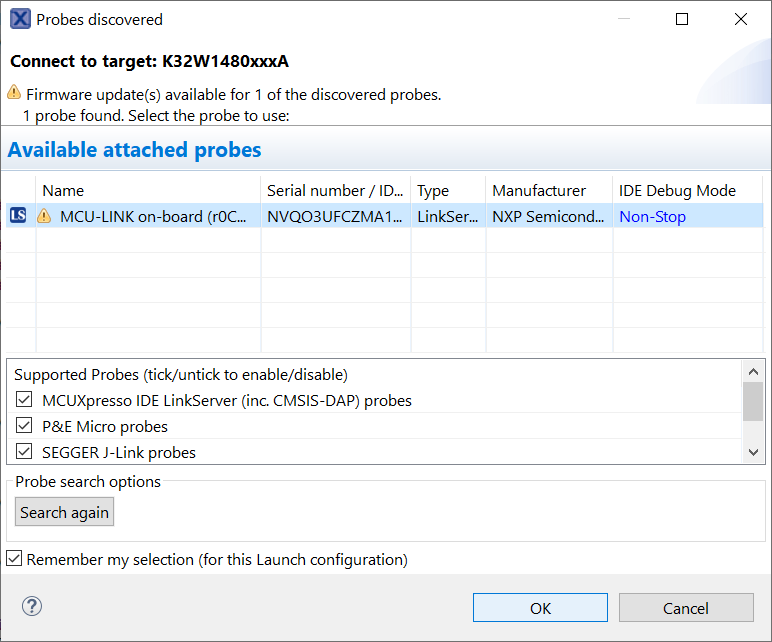
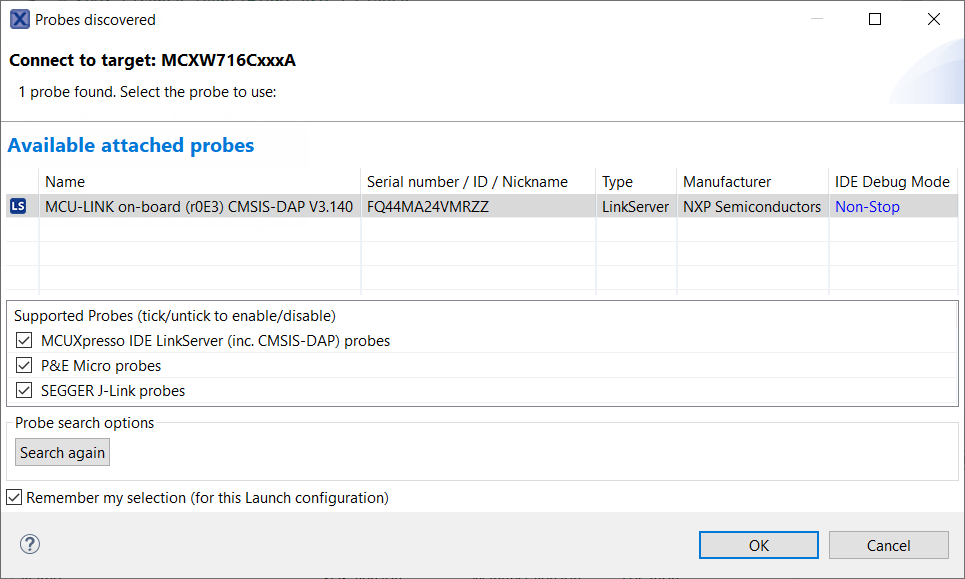
GS for frdmmcxw71

diff --git a/boards/frdmmcxw71/gettingStarted/topics/updating_debugger_firmware.md b/boards/frdmmcxw71/gettingStarted/topics/updating_debugger_firmware.md
@@ -1,6 +1,6 @@
 # Updating debugger firmware {#topic_rrw_l2h_5wb}
 
-The K32W148-EVK board comes with a CMSIS-DAP-compatible debug interface \(known as MCU-Link\). This firmware in this debug interface may be updated using the host computer scripts. This typically used when switching between the default debugger protocol \(CMSIS-DAP\) to SEGGER J-Link, or for updating this firmware with new releases of these. This section contains the steps to re-program the debug probe firmware.
+The FRDM-MCXW71 board comes with a CMSIS-DAP-compatible debug interface \(known as MCU-Link\). This firmware in this debug interface may be updated using the host computer scripts. This typically used when switching between the default debugger protocol \(CMSIS-DAP\) to SEGGER J-Link, or for updating this firmware with new releases of these. This section contains the steps to re-program the debug probe firmware.
 
 NXP provides the MCU-Link utility, which is the recommended tool for programming the latest versions of CMSIS-DAP and J-Link firmware onto MCU-Link. The utility can be downloaded from [https://www.nxp.com/design/microcontrollers-developer-resources/mcu-link-debug-probe:MCU-LINK](https://www.nxp.com/design/microcontrollers-developer-resources/mcu-link-debug-probe:MCU-LINK).
 
@@ -8,12 +8,12 @@ These steps show how to update the debugger firmware on your board for Windows o
 
 1.  Install the MCU-Link utility.
 2.  Unplug the board's USB cable.
-3.  Install the jumper on JP20.
+3.  Install the jumper on JP5.
 4.  Connect the probe to the host via USB \(use Link USB connector\).
 5.  Open a command shell and call the appropriate script located in the MCU-Link installation directory, *<MCU-Link install dir*\>.
 
     1.  To program CMSIS-DAP debug firmware: *<MCU-Link install dir\>/scripts/program\_CMSIS*.
     2.  To program J-Link debug firmware: *<MCU-Link install dir\>/scripts/program\_JLINK*.
-6.  Remove the jumper on JP20.
+6.  Remove the jumper on JP5.
 7.  Re-power the board by removing the USB cable and plugging it in again.
 

diff --git a/boards/frdmmcxw71/gettingStarted/gsindex.md b/boards/frdmmcxw71/gettingStarted/gsindex.md
@@ -1,15 +1,18 @@
-# Getting Started with MCUXpresso SDK for K32W148-EVK
+# Getting Started with MCUXpresso SDK for FRDM-MCXW71X
+
+-   [Overview](topics/overview.md)
+-   [MCUXpresso SDK Board Support Package Folders](topics/mcuxpresso_sdk_board_support_package_folders.md)
+    -   [Example application structure](topics/example_application_structure.md)
+    -   [Locating example application source files](topics/locating_example_application_source_files.md)
+-   [Running a demo application using IAR](topics/running_a_demo_application_using_iar.md)
+    -   [Build an example application](topics/build_an_example_application.md)
+    -   [Run an example application](topics/run_an_example_application_001.md)
+-   [Run a demo using MCUXpresso IDE](topics/run_a_demo_using_mcuxpresso_ide.md)
+    -   [Select the workspace location](topics/select_the_workspace_location.md)
+    -   [Build an example application](topics/build_an_example_application_001.md)
+    -   [Run an example application](topics/run_an_example_application.md)
+-   [How to determine COM Port](topics/how_to_determine_com_port.md)
+-   [How to set the board to the Bootloader ISP mode](topics/how_to_set_the_board_to_bootloader.md)
+-   [Updating debugger firmware](topics/updating_debugger_firmware.md)
 
 
-```{tocTree}
-:maxdepth: 4
-:caption: Table of Contents
-
-topics/overview.md
-topics/mcuxpresso_sdk_board_support_package_folders.md
-topics/running_a_demo_application_using_iar.md
-topics/run_a_demo_using_mcuxpresso_ide.md
-topics/how_to_determine_com_port.md
-topics/how_to_set_the_board_to_bootloader.md
-topics/updating_debugger_firmware.md
-```

diff --git a/boards/frdmmcxw71/gettingStarted/topics/running_a_demo_application_using_iar.md b/boards/frdmmcxw71/gettingStarted/topics/running_a_demo_application_using_iar.md
@@ -1,6 +1,17 @@
-# Running a Demo Application using IAR
+# Running a demo application using IAR
 
-This section describes the steps required to build, run, and debug example applications provided in the MCUXpresso SDK. The `hello_world` demo application targeted for the **k32w148evk** hardware platform is used as an example, although these steps can be applied to any example application in the MCUXpresso SDK.
+This section describes the steps required to build, run, and debug example applications provided in the MCUXpresso SDK. The `hello_world` demo application targeted for the **frdmmcxw71** hardware platform is used as an example, although these steps can be applied to any example application in the MCUXpresso SDK.
+
+MCXW71 is a new product which is not natively supported by IAR toolchain at the time of this writing.
+
+It will be supported in IAR 9.60.3 targeted for mid-Oct 2024. So, before IAR 9.60.3, follow the steps below to apply the patch. This patch provides all the files to be incorporated in IAR Embedded Workbench folder structure so that MCXW71 SDK projects can be built and debugged in this IDE.
+
+**Important:**
+
+The following patch has been tested with IAR Embedded Workbench v9.60. IAR patch is distributed via [https://mcuxpresso.nxp.com/download/29461429d7fb0eb696d55ab0c47e3a6b](https://mcuxpresso.nxp.com/download/29461429d7fb0eb696d55ab0c47e3a6b).
+
+1.  Download the archive file iar\_patch\_mcxw71.zip.
+2.  Unzip the file and copy the arm directory in your IAR folder structure. For example, C:/Program Files/IAR systems.
 
 
 ```{include} ../topics/build_an_example_application.md

diff --git a/boards/frdmmcxw71/gettingStarted/topics/mcuxpresso_sdk_board_support_package_folders.md b/boards/frdmmcxw71/gettingStarted/topics/mcuxpresso_sdk_board_support_package_folders.md
@@ -1,6 +1,6 @@
 # MCUXpresso SDK Board Support Package Folders
 
-MCUXpresso SDK board support package provides example applications for NXP development and evaluation boards for Arm® Cortex®-M cores including Freedom, Tower System, and LPCXpresso boards. Board support packages are found inside the top-level boards folder and each supported board has its own folder \(an MCUXpresso SDK package can support multiple boards\). Within each *<board\_name\>* folder, there are various sub-folders to classify the type of examples it contains. These include \(but are not limited to\):
+MCUXpresso SDK board support package provides example applications for NXP development and evaluation boards for Arm Cortex-M cores including Freedom, Tower System, and LPCXpresso boards. Board support packages are found inside the top-level boards folder and each supported board has its own folder \(an MCUXpresso SDK package can support multiple boards\). Within each *<board\_name\>* folder, there are various sub-folders to classify the type of examples it contains. These include \(but are not limited to\):
 
 -   `demo_apps`: Full-featured applications that highlight key functionality and use cases of the target MCU. These applications typically use multiple MCU peripherals and may leverage stacks and middleware.
 -   `driver_examples`: Simple applications that show how to use the MCUXpresso SDK’s peripheral drivers for a single use case. These applications typically only use a single peripheral but there are cases where multiple peripherals are used \(for example, SPI conversion using DMA\).

diff --git a/boards/frdmmcxw71/gettingStarted/topics/overview.md b/boards/frdmmcxw71/gettingStarted/topics/overview.md
@@ -2,7 +2,7 @@
 
 The NXP MCUXpresso software and tools offer comprehensive development solutions designed to optimize, ease and help accelerate embedded system development of applications based on general purpose, crossover and Bluetooth™-enabled MCUs from NXP. The MCUXpresso SDK includes a flexible set of peripheral drivers designed to speed up and simplify development of embedded applications which can be used standalone or collaboratively with the A cores running another Operating System \(such as Linux OS Kernel\). Along with the peripheral drivers, the MCUXpresso SDK provides an extensive and rich set of example applications covering everything from basic peripheral use case examples to demo applications. The MCUXpresso SDK also contains optional RTOS integrations such as FreeRTOS and Azure RTOS, device stack, and various other middleware to support rapid development.
 
-For supported toolchain versions, see *MCUXpresso SDK Release Notes for K32W148-EVK* \(Document MCUXSDKK32W1RN\).
+For supported toolchain versions, see *MCUXpresso SDK Release Notes for FRDM-MCXW71* \(Document MCUXSDKMCXW716RN\).
 
 For the latest version of this and other MCUXpresso SDK documents, see [MCUXpresso Software Development Kit \(SDK\)](https://www.nxp.com/design/software/development-software/mcuxpresso-software-and-tools-/mcuxpresso-software-development-kit-sdk:MCUXpresso-SDK).
 

diff --git a/boards/frdmmcxw71/gettingStarted/topics/run_an_example_application_001.md b/boards/frdmmcxw71/gettingStarted/topics/run_an_example_application_001.md
@@ -2,7 +2,7 @@
 
 To download and run the application, perform these steps:
 
-1.  Connect the development platform to your PC via USB cable between the USB connector \(J14\) and the PC USB connector.
+1.  Connect the development platform to your PC via USB cable between the USB connector \(J10 and the PC USB connector.
 2.  Open the terminal application on the PC, such as PuTTY or TeraTerm, and connect to the debug COM port. To determine the COM port number, see [How to determine COM Port](how_to_determine_com_port.md). Configure the terminal with these settings:
 
     1.  115200 baud rate, depending on your settings \(reference the `BOARD_DEBUG_UART_BAUDRATE` variable in the `board.h` file\)
@@ -28,5 +28,5 @@ To download and run the application, perform these steps:
     ![](../images/iar_text_display_hello_world.jpg "Text display of the hello_world demo")
 
 
-**Parent topic:**[Running a Demo Application using IAR](../topics/running_a_demo_application_using_iar.md)
+**Parent topic:**[Running a demo application using IAR](../topics/running_a_demo_application_using_iar.md)
 

diff --git a/boards/frdmmcxw71/gettingStarted/topics/build_an_example_application.md b/boards/frdmmcxw71/gettingStarted/topics/build_an_example_application.md
@@ -8,10 +8,10 @@ Do the following steps to build the `hello_world` example application..
     <install_dir>/boards/<board_name>/<example_type>/<application_name>/iar
     ```
 
-    Using the k32w148evk hardware platform as an example, the `hello_world` workspace is located in:
+    Using the `frdmmcxw71` hardware platform as an example, the `hello_world` workspace is located in:
 
     ```
-    <install_dir>/boards/k32w148evk/demo_apps/hello_world/iar/hello_world.eww
+    <install_dir>/boards/frdmmcxw71/demo_apps/hello_world/iar/hello_world.eww
     ```
 
     Other example applications may have additional folders in their path.
@@ -28,5 +28,5 @@ Do the following steps to build the `hello_world` example application..
 
 4.  The build completes without errors.
 
-**Parent topic:**[Running a Demo Application using IAR](../topics/running_a_demo_application_using_iar.md)
+**Parent topic:**[Running a demo application using IAR](../topics/running_a_demo_application_using_iar.md)
 

diff --git a/boards/frdmmcxw71/gettingStarted/topics/how_to_set_the_board_to_bootloader.md b/boards/frdmmcxw71/gettingStarted/topics/how_to_set_the_board_to_bootloader.md
@@ -1,12 +1,12 @@
 # How to set the board to the Bootloader ISP mode {#topic_osx_j2h_5wb}
 
-On K32W148-EVK board:
+On FRDM-MCXW71 board:
 
-1.  Press and hold the BOOT CONFIG switch SW4.
-2.  Connect the K32W148-EVK board via micro-USB connector to the PC.
-3.  Release the switch SW4.
+1.  Press and hold the BOOT CONFIG switch SW3.
+2.  Connect the FRDM-MCXW71 board via micro-USB connector to the PC.
+3.  Release the switch SW3.
 4.  Check the associated USB port number on the PC \(such as, COM10\).
-5.  While the K32W148 is in bootloader ISP mode, navigate to the folder where *blhost.exe* is located.
+5.  While MCXW716 is in bootloader ISP mode, navigate to the folder where *blhost.exe* is located.
 6.  Type the command `.\blhost.exe -p COM10 -- get-property 1` to make sure that the K32W148 is in Bootloader ISP mode, you should see:
 
     Ping responded in 1 attempt\(s\)

diff --git a/boards/frdmmcxw71/gettingStarted/topics/run_a_demo_using_mcuxpresso_ide.md b/boards/frdmmcxw71/gettingStarted/topics/run_a_demo_using_mcuxpresso_ide.md
@@ -2,7 +2,7 @@
 
 **Note:** Ensure that the MCUXpresso IDE toolchain is included when generating the MCUXpresso SDK package.
 
-This section describes the steps required to configure MCUXpresso IDE to build, run, and debug example applications. The `hello_world` demo application targeted for the K32W148 hardware platform is used as an example, though these steps can be applied to any example application in the MCUXpresso SDK.
+This section describes the steps required to configure MCUXpresso IDE to build, run, and debug example applications. The `hello_world` demo application targeted for the `MCXW716` hardware platform is used as an example, though these steps can be applied to any example application in the MCUXpresso SDK.
 
 
 ```{include} ../topics/select_the_workspace_location.md

diff --git a/boards/frdmmcxw71/gettingStarted/topics/run_an_example_application.md b/boards/frdmmcxw71/gettingStarted/topics/run_an_example_application.md
@@ -2,7 +2,7 @@
 
 To download and run the application, perform the following steps:
 
-1.  Connect the development platform to your PC via USB cable between the USB connector \(J14\) and the PC USB connector.
+1.  Connect the development platform to your PC via USB cable between the USB connector \(J10\) and the PC USB connector.
 2.  Open the terminal application on the PC, such as PuTTY or TeraTerm. Connect to the debug serial port number \(to determine the COM port number, see [How to determine COM Port](how_to_determine_com_port.md)\). Configure the terminal with these settings:
 
     1.  115200 or 9600 baud rate, depending on your board \(reference `BOARD_DEBUG_UART_BAUDRATE` variable in `board.h` file\)

diff --git a/boards/frdmmcxw71/gettingStarted/topics/build_an_example_application_001.md b/boards/frdmmcxw71/gettingStarted/topics/build_an_example_application_001.md
@@ -10,9 +10,9 @@ To build an example application, follow these steps.
 
     ![](../images/ide_importing_an_sdk_example.jpg "Import an SDK example")
 
-3.  In the window that appears, expand the **K32W14X** folder and select **K32W1480xxxA**. Then, select **k32w148evk** and click **Next**.
+3.  In the window that appears, expand the **MCXW7XX** folder and select **MCXW716CxxxA**. Then, select **frdmmcxw71** and click **Next**.
 
-    ![](../images/ide_selecting_k32w148_board.png "Select K32W14X board")
+    ![](../images/ide_selecting_k32w148_board.png "Select the frdmmcxw71 board")
 
 4.  Expand the `demo_apps` folder and select `hello_world`. Then, click **Next**.
 

diff --git a/boards/frdmmcxw71/gettingStarted/topics/revision_history.md b/boards/frdmmcxw71/gettingStarted/topics/revision_history.md
@@ -2,7 +2,7 @@
 
 [Table 1](#table_revisionhistory) summarizes the revisions to this document.
 
-|Document ID|Release Date|Description|
-|:----------|:-----------|:----------|
-|MCUXSDKK32W1GSUG v2.16.000|17 June 2024|Initial release for MCUXpresso SDK 2.16.000|
+|Revision number|Release date|Description|
+|---------------|------------|-----------|
+|MCUXSDKFRDMMCXW71GSUG v2.16.000|01 July 2024|Initial release for MCUXpresso SDK 2.16.000 release|
 
